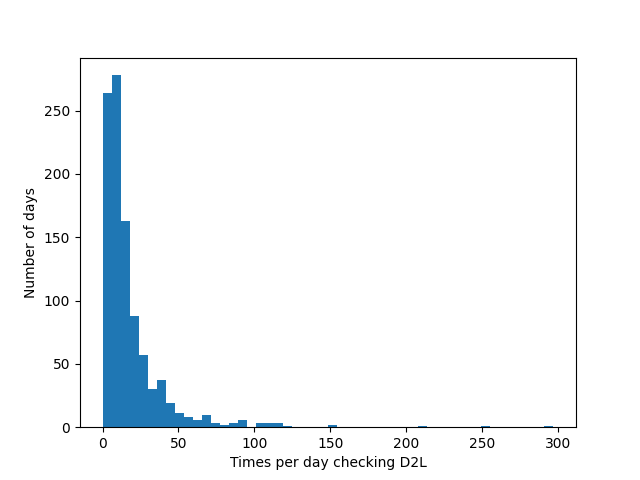
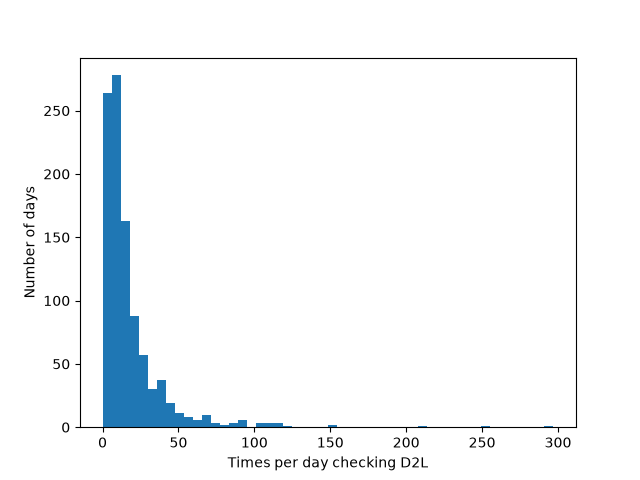
Adding numeric data lecture

diff --git a/slides/05-basic-numeric.md b/slides/05-basic-numeric.md
@@ -1,0 +1,167 @@
+---
+title: "5: Basic Numeric Transformations"
+date: 2026-09-24
+marp: true
+theme: marp-mru
+paginate: true
+headingDivider: 2
+code: 05_numeric
+leftoff:
+---
+
+<!-- 
+_class: title_slide
+_paginate: skip
+-->
+
+{{< katex />}}
+{{% ignore %}}
+
+## <!--fit-->DATA 3464: Fundamentals of Data Processing
+### <!--fit-->Basic Numeric Transformations
+
+Charlotte Curtis
+September 23, 2026
+
+{{% /ignore %}}
+
+## Topic overview
+- Why transformations are necessary
+- Common 1:1 transformations
+- Implementation notes
+
+**Resources used:**
+- [Feature Engineering Section 6.1](https://feat.engineering/06-Engineering_Numeric_Predictors.html#sec-numeric-one-to-one)
+- Hands on Machine Learning with Scikit-Learn and Tensorflow/PyTorch, Chapter 4. Available at [MRU Library](https://ebookcentral.proquest.com/lib/mtroyal-ebooks/detail.action?docID=30168989)
+- [Scikit-learn user guide: Chapter 7](https://scikit-learn.org/stable/data_transforms.html)
+- Introduction to Machine Learning with Python. Available at <a href="https://librarysearch.mtroyal.ca/permalink/01MTROYAL_INST/1qa1aqk/cdi_overdrive_books_ODN0002976888">MRU Library</a>
+
+## Common 1:1 transformations
+
+> "Most models work best when each feature (and in regression also the target) is loosely Gaussian distributed" — Introduction to Machine Learning with Python
+
+* Scaling: normalization or standardization
+* Nonlinear transforms: log, square root, polynomial
+* Fancier methods: Box-Cox, Yeo-Johnson
+
+## A brief intro to gradient descent
+* Many linear models minimize some cost function through **gradient descent**
+* The **gradient** is a vector of partial derivatives
+    $$\nabla f = \begin{bmatrix} \frac{\partial f}{\partial x_1} \\ \frac{\partial f}{\partial x_2} \\ \vdots \\ \frac{\partial f}{\partial x_n} \end{bmatrix}$$
+
+  for some scalar-valued $f(\mathbf{x})$
+
+## Descending the gradient
+For a loss (or cost) function such as $MSE(\mathrm{\theta}) = \frac{1}{m}(\mathbf{X}\mathbf{\theta} - \mathbf{y})^T(\mathbf{X}\mathbf{\theta} - \mathbf{y})$
+1) Start with a random $\mathbf{\theta}$
+2) Calculate the gradient $\nabla_{\mathbf{\theta}}$ for the current $\mathbf{\theta}$
+3) Update $\mathbf{\theta}$ as $\mathbf{\theta} = \mathbf{\theta} - \eta \nabla_{\mathbf{\theta}}$
+4) Repeat 2-3 until some stopping criterion is met
+
+    where $\eta$ is the **learning rate**, or the size of step to take in the direction opposite the gradient.
+
+## Visualizing in 2D
+* The gradient has $m + 1$ dimensions, where $m$ is the number of features
+* step size $\eta$ is a scalar parameter
+
+  ![h:250 center](../img/04-feature_scaling.png)
+
+<div data-marpit-fragment>
+
+> Main takeaway: feature should be more or less on the same scale
+
+</div>
+
+<footer>Figure 4-7 from Hands-on Machine Learning</footer>
+
+## Approaches to scaling
+
+![](../img/05-scaling.png)
+
+<div class="columns">
+
+Standardize: $x_{scaled} = \dfrac{x - \mu_x}{\sigma_x}$ 
+
+Normalize: $x_{scaled} = \dfrac{x - \mathrm{min}(x)}{\mathrm{max}(x) - \mathrm{min}(x)}$ 
+
+</div>
+
+## Nonlinear transforms
+
+<!-- _class: code_reminder -->
+
+![bg right fit](../img/05-counts.png)
+
+* Common case: count data
+* Example: Ask 1000 students how often they checked D2L that day
+* Not a Gaussian distribution!
+* What about the central limit theorem?
+
+## Power transforms
+A family of functions that map data to a normal distribution.
+
+$$y_i^{(\lambda)} =
+\begin{cases}
+\dfrac{y_i^\lambda-1}{\lambda(\operatorname{GM}(y))^{\lambda -1}} , &\text{if } \lambda \neq 0 \\[12pt]
+\operatorname{GM}(y)\ln{y_i} , &\text{if } \lambda = 0
+\end{cases}$$
+
+(Or just [`PowerTransformer`](https://scikit-learn.org/stable/modules/generated/sklearn.preprocessing.PowerTransformer.html#sklearn.preprocessing.PowerTransformer))
+
+![bg left fit](https://scikit-learn.org/stable/_images/sphx_glr_plot_map_data_to_normal_001.png)
+
+<footer>Image credit: <a href="https://scikit-learn.org/stable/auto_examples/preprocessing/plot_map_data_to_normal.html#sphx-glr-auto-examples-preprocessing-plot-map-data-to-normal-py">Scikit-learn</a></footer>
+
+## Transformations in training vs inference
+* Define functions, e.g.
+  ```python
+  def standardize(X, mu, sigma):
+      return (X - mu) / sigma
+  ```
+* Compute scaling parameters **on the training data**, then stash them somewhere:
+  ```python
+  mu = X_train.mean()
+  sigma = X_train.std()
+  # ... later on, during inference
+  X = standardize(X, mu, sigma)
+  ```
+  > What would happen if `standardize` instead computed values on the fly?
+
+## Manual approach in the wild
+You may run across [magic numbers](https://en.wikipedia.org/wiki/Magic_number_(programming)), e.g from the [PyTorch tutorials](https://docs.pytorch.org/tutorials/beginner/data_loading_tutorial.html):
+
+  ```python
+  import torch
+  from torchvision import transforms, datasets
+
+  data_transform = transforms.Compose([
+          transforms.RandomResizedCrop(224),
+          transforms.RandomHorizontalFlip(),
+          transforms.ToTensor(),
+          transforms.Normalize(mean=[0.485, 0.456, 0.406],
+                               std=[0.229, 0.224, 0.225])
+      ])
+  ```
+This really should have a comment! Derived from [ImageNet](https://www.image-net.org/index.php).
+
+## An alternative solution: Scikit-learn `Pipeline`s
+* Hard-coding scaling (and other) parameters is okay, provided you can **justify the choice** and **document where they came from**
+* Scikit-learn [Pipeline](https://scikit-learn.org/stable/modules/generated/sklearn.pipeline.Pipeline.html) is a convenient alternative
+* Each step in the pipeline has a `fit` and `transform` method
+  - `fit` computes parameters from the training data
+  - `transform` applies the transformation
+  - `fit_transform` does both — **only use on training data!**
+* You can call these functions on the whole pipeline to fit or apply all in one go
+
+
+
+## Summary
+* Numerical data often needs to be transformed to fit model assumptions
+* Standardizing and normalizing are very common
+* Nonlinear transformations can also be beneficial
+* Make sure to *only* compute parameters based on training data!
+
+## Coming up next
+* Lecture: Back to sampling/splitting
+* Truth and reconciliation day — no lab next week (but assignment 1 is due!)
+* Next topic: Missing data, outliers, and interaction effects

diff --git a/slides/04-categorical.md b/slides/04-categorical.md
@@ -6,7 +6,8 @@ theme: marp-mru
 paginate: true
 headingDivider: 2
 demo-code: "/demo_code/04_categorical/catdemo.ipynb"
-demo=data: "/demo_code/04_categorical/profiles_revised.csv"
+demo-data: "/demo_code/04_categorical/profiles_revised.csv"
+leftoff: "Completed Sept 22"
 ---
 
 <!-- 

diff --git a/slides/03-eda.md b/slides/03-eda.md
@@ -7,7 +7,7 @@ paginate: true
 headingDivider: 2
 demo-code: "/demo_code/03_eda/eda_demo.ipynb"
 demo-data: "/demo_code/03_eda/titanic_train.csv"
-leftoff: "Slide 9"
+leftoff: "Completed Sept 22"
 ---
 
 <!-- 
